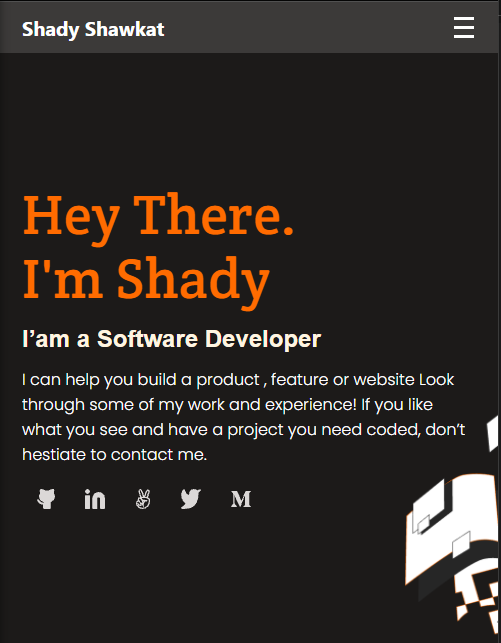
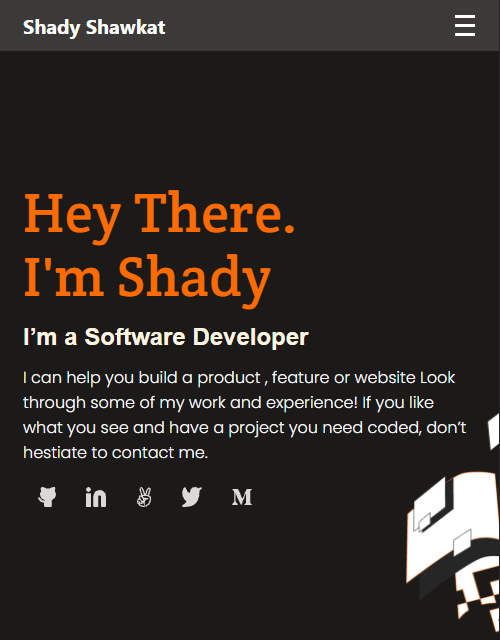
Fix typo

diff --git a/index.html b/index.html
@@ -28,10 +28,10 @@
       <main>
         <header>
           <h1 class="header-title">Hey There.</br> I'm Shady</h1>
-          <p class="primary-text">I’am a Software Developer</p>
+          <p class="primary-text">I’m a Software Developer</p>
           <p class="describtion">I can help you build a product , feature or website Look through some of my work and experience! If you like what you see and have a project you need coded, 
             don’t hestiate to contact me.</p>
-            
+
           <div class="social-media-icons">
             <a href="#">
               <img src="images/Github-icon.svg" alt="Github icon">
